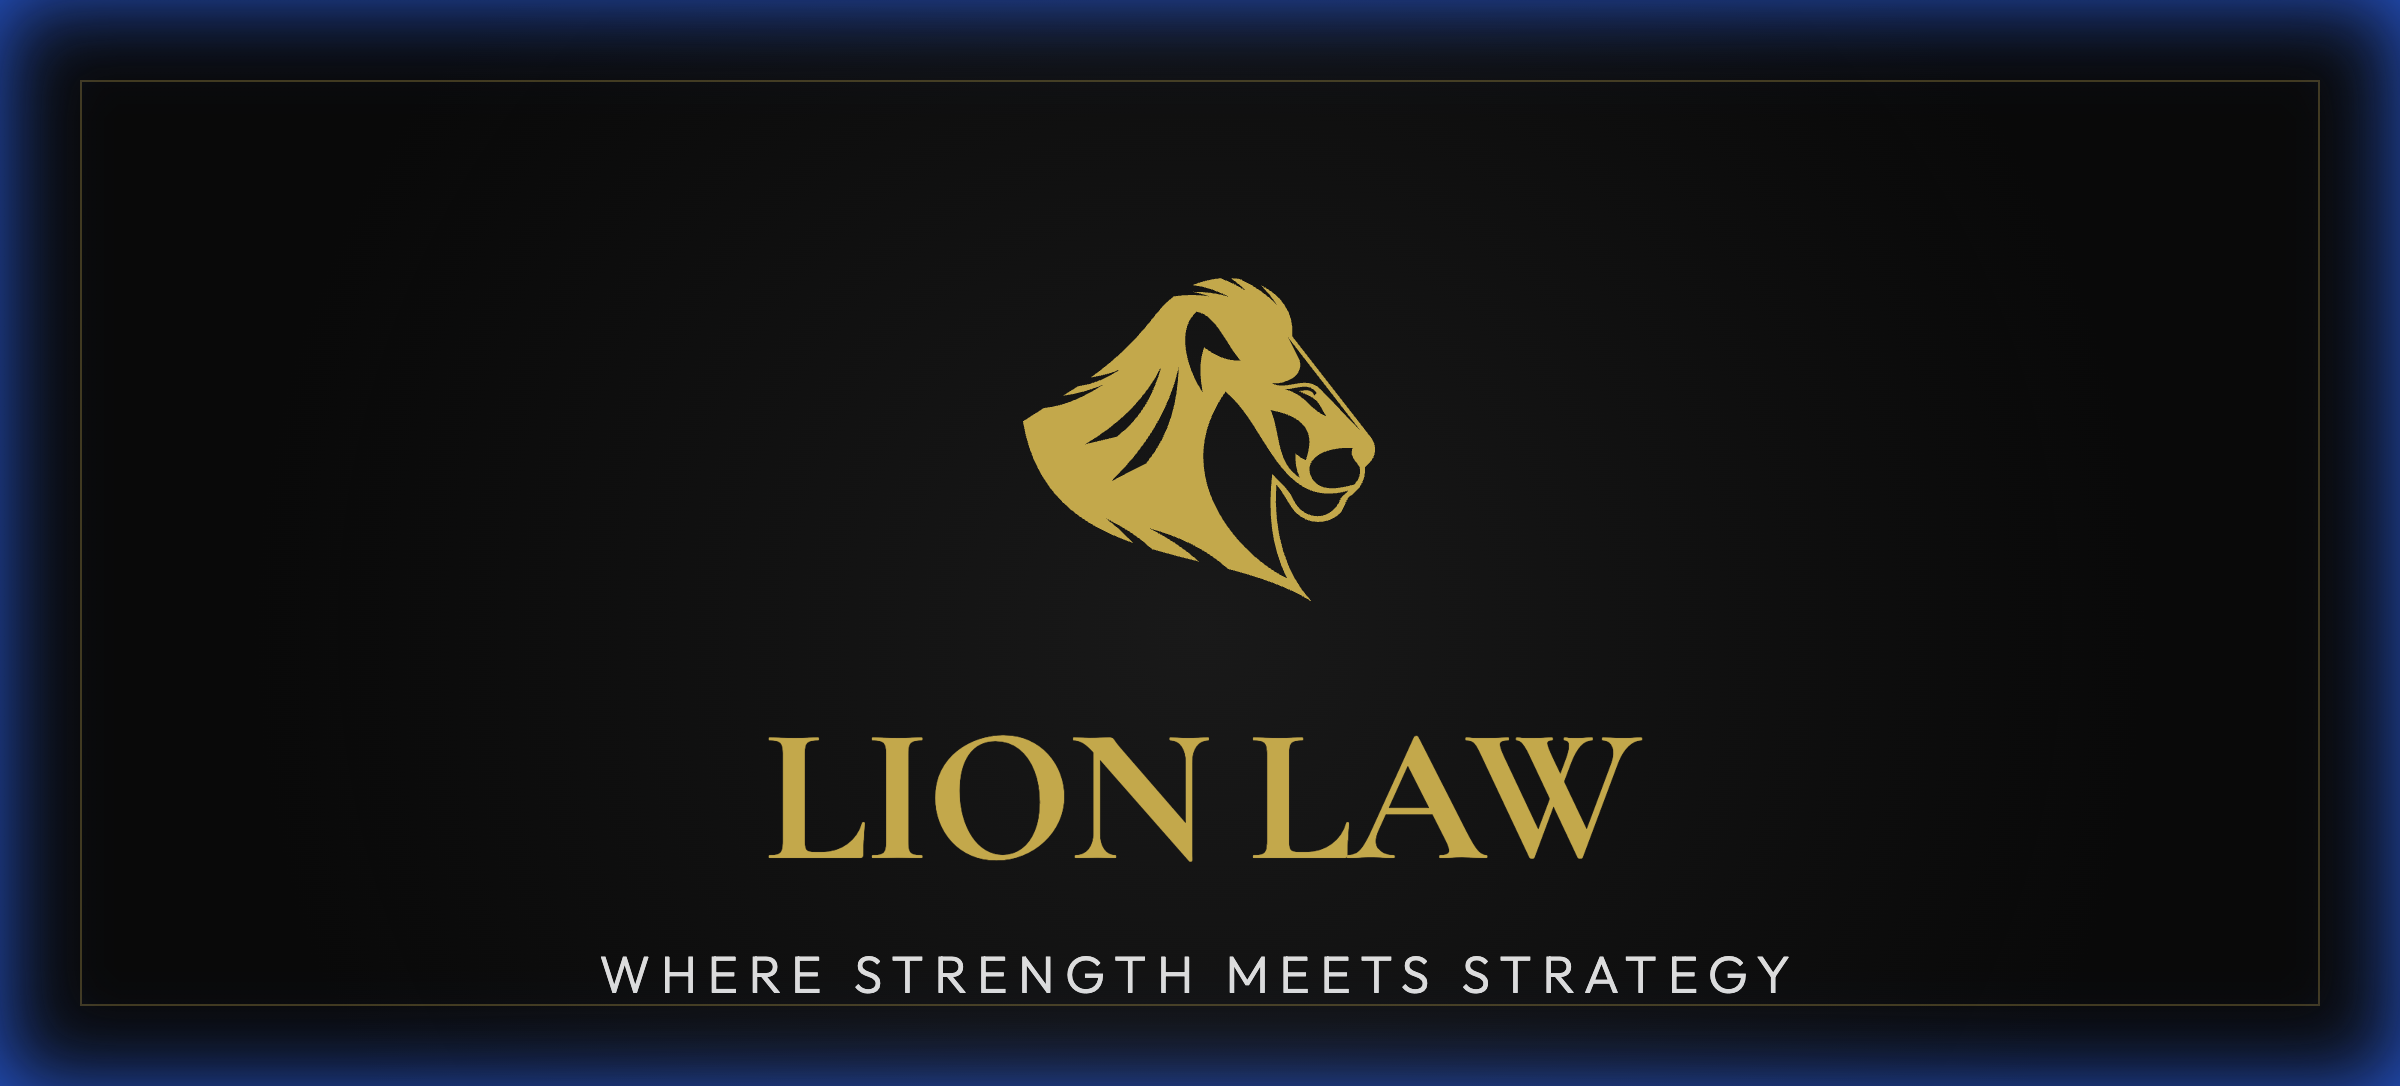
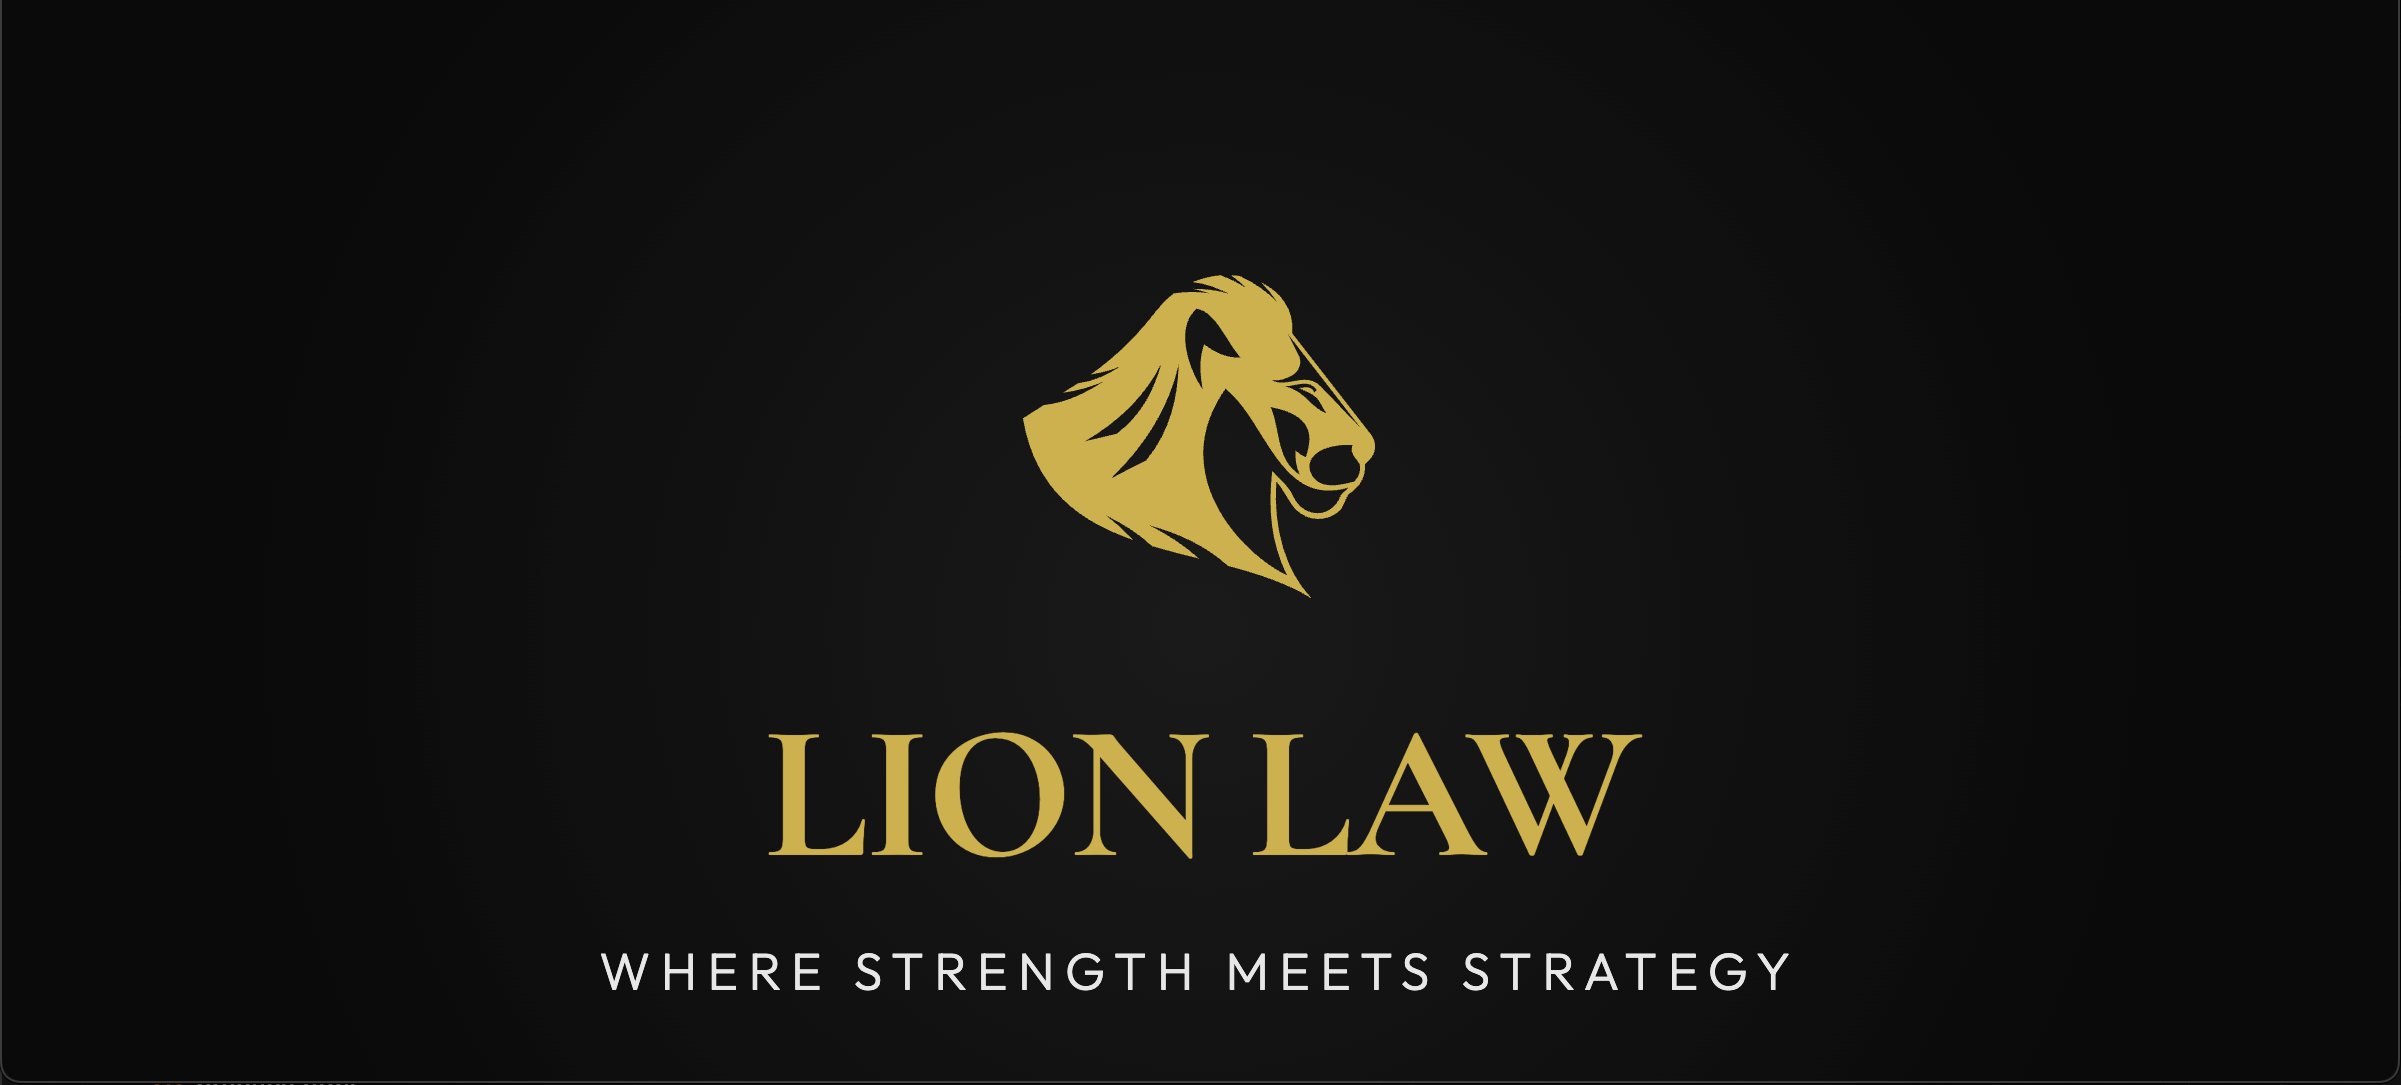
URLs 7

diff --git a/og-preview.html b/og-preview.html
@@ -30,6 +30,11 @@
             color: white;
             box-sizing: border-box;
             background-image: radial-gradient(circle at center, #1a1a1a 0%, #0a0a0a 70%);
+            overflow: hidden;
+        }
+
+        * {
+            outline: none;
         }
 
         .container {
@@ -42,15 +47,7 @@
         }
 
         /* Border decoration for breathing room/framing */
-        .frame {
-            position: absolute;
-            top: 40px;
-            left: 40px;
-            right: 40px;
-            bottom: 40px;
-            border: 1px solid rgba(212, 175, 55, 0.3);
-            pointer-events: none;
-        }
+
 
         .logo-container {
             width: 180px;
@@ -83,7 +80,7 @@
 </head>
 
 <body>
-    <div class="frame"></div>
+
     <div class="container">
         <div class="logo-container">
             <!-- Lion Law SVG Logo -->

diff --git a/about.html b/about.html
@@ -4,7 +4,7 @@
 <head>
     <meta charset="UTF-8">
     <meta name="viewport" content="width=device-width, initial-scale=1.0">
-    <meta property="og:image" content="https://accidentsinjurylawyer.com/open-graph.png?v=2">
+    <meta property="og:image" content="https://accidentsinjurylawyer.com/open-graph.png?v=3">
     <meta property="og:image:width" content="1200">
     <meta property="og:image:height" content="630">
     <meta property="og:type" content="website">

diff --git a/blog-car-accident-settlement.html b/blog-car-accident-settlement.html
@@ -4,7 +4,7 @@
 <head>
     <meta charset="UTF-8">
     <meta name="viewport" content="width=device-width, initial-scale=1.0">
-    <meta property="og:image" content="https://accidentsinjurylawyer.com/open-graph.png?v=2">
+    <meta property="og:image" content="https://accidentsinjurylawyer.com/open-graph.png?v=3">
     <meta property="og:image:width" content="1200">
     <meta property="og:image:height" content="630">
     <meta property="og:type" content="article">

diff --git a/blog-medical-malpractice.html b/blog-medical-malpractice.html
@@ -4,7 +4,7 @@
 <head>
     <meta charset="UTF-8">
     <meta name="viewport" content="width=device-width, initial-scale=1.0">
-    <meta property="og:image" content="https://accidentsinjurylawyer.com/open-graph.png?v=2">
+    <meta property="og:image" content="https://accidentsinjurylawyer.com/open-graph.png?v=3">
     <meta property="og:image:width" content="1200">
     <meta property="og:image:height" content="630">
     <meta property="og:type" content="article">

diff --git a/blog-motorcycle-crash-rights.html b/blog-motorcycle-crash-rights.html
@@ -4,7 +4,7 @@
 <head>
     <meta charset="UTF-8">
     <meta name="viewport" content="width=device-width, initial-scale=1.0">
-    <meta property="og:image" content="https://accidentsinjurylawyer.com/open-graph.png?v=2">
+    <meta property="og:image" content="https://accidentsinjurylawyer.com/open-graph.png?v=3">
     <meta property="og:image:width" content="1200">
     <meta property="og:image:height" content="630">
     <meta property="og:type" content="article">

diff --git a/blog-slip-and-fall-guide.html b/blog-slip-and-fall-guide.html
@@ -4,7 +4,7 @@
 <head>
     <meta charset="UTF-8">
     <meta name="viewport" content="width=device-width, initial-scale=1.0">
-    <meta property="og:image" content="https://accidentsinjurylawyer.com/open-graph.png?v=2">
+    <meta property="og:image" content="https://accidentsinjurylawyer.com/open-graph.png?v=3">
     <meta property="og:image:width" content="1200">
     <meta property="og:image:height" content="630">
     <meta property="og:type" content="article">

diff --git a/blog-tbi-compensation-guide.html b/blog-tbi-compensation-guide.html
@@ -4,7 +4,7 @@
 <head>
     <meta charset="UTF-8">
     <meta name="viewport" content="width=device-width, initial-scale=1.0">
-    <meta property="og:image" content="https://accidentsinjurylawyer.com/open-graph.png?v=2">
+    <meta property="og:image" content="https://accidentsinjurylawyer.com/open-graph.png?v=3">
     <meta property="og:image:width" content="1200">
     <meta property="og:image:height" content="630">
     <meta property="og:type" content="article">

diff --git a/blog-truck-accident-verdict.html b/blog-truck-accident-verdict.html
@@ -4,7 +4,7 @@
 <head>
     <meta charset="UTF-8">
     <meta name="viewport" content="width=device-width, initial-scale=1.0">
-    <meta property="og:image" content="https://accidentsinjurylawyer.com/open-graph.png?v=2">
+    <meta property="og:image" content="https://accidentsinjurylawyer.com/open-graph.png?v=3">
     <meta property="og:image:width" content="1200">
     <meta property="og:image:height" content="630">
     <meta property="og:type" content="article">

diff --git a/blog.html b/blog.html
@@ -4,7 +4,7 @@
 <head>
     <meta charset="UTF-8">
     <meta name="viewport" content="width=device-width, initial-scale=1.0">
-    <meta property="og:image" content="https://accidentsinjurylawyer.com/open-graph.png?v=2">
+    <meta property="og:image" content="https://accidentsinjurylawyer.com/open-graph.png?v=3">
     <meta property="og:image:width" content="1200">
     <meta property="og:image:height" content="630">
     <meta property="og:type" content="website">

diff --git a/case-results.html b/case-results.html
@@ -4,7 +4,7 @@
 <head>
     <meta charset="UTF-8">
     <meta name="viewport" content="width=device-width, initial-scale=1.0">
-    <meta property="og:image" content="https://accidentsinjurylawyer.com/open-graph.png?v=2">
+    <meta property="og:image" content="https://accidentsinjurylawyer.com/open-graph.png?v=3">
     <meta property="og:image:width" content="1200">
     <meta property="og:image:height" content="630">
     <meta property="og:type" content="website">

diff --git a/contact.html b/contact.html
@@ -4,7 +4,7 @@
 <head>
     <meta charset="UTF-8">
     <meta name="viewport" content="width=device-width, initial-scale=1.0">
-    <meta property="og:image" content="https://accidentsinjurylawyer.com/open-graph.png?v=2">
+    <meta property="og:image" content="https://accidentsinjurylawyer.com/open-graph.png?v=3">
     <meta property="og:image:width" content="1200">
     <meta property="og:image:height" content="630">
     <meta property="og:type" content="website">

diff --git a/disclaimer.html b/disclaimer.html
@@ -4,7 +4,7 @@
 <head>
     <meta charset="UTF-8">
     <meta name="viewport" content="width=device-width, initial-scale=1.0">
-    <meta property="og:image" content="https://accidentsinjurylawyer.com/open-graph.png?v=2">
+    <meta property="og:image" content="https://accidentsinjurylawyer.com/open-graph.png?v=3">
     <meta property="og:image:width" content="1200">
     <meta property="og:image:height" content="630">
     <meta property="og:type" content="website">
